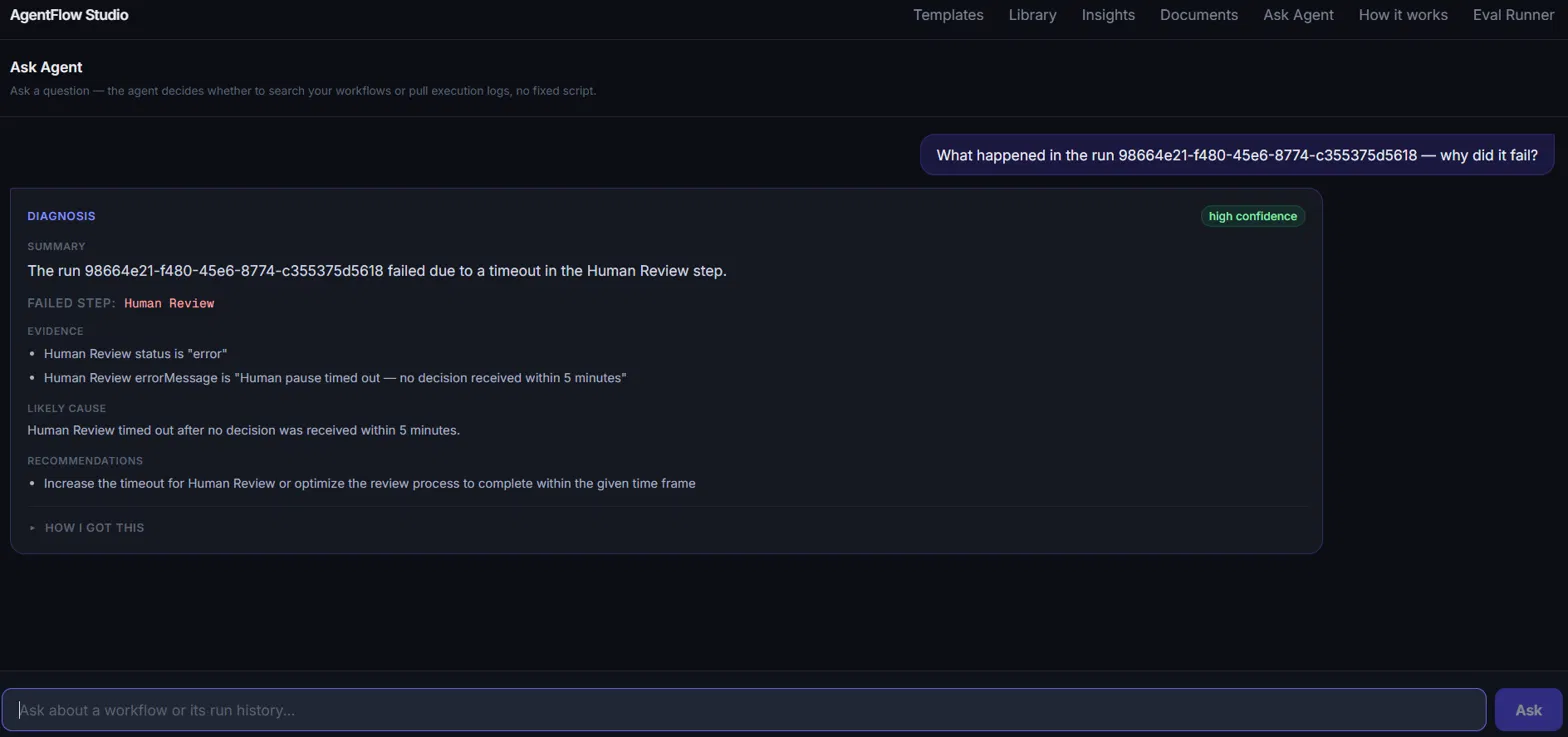
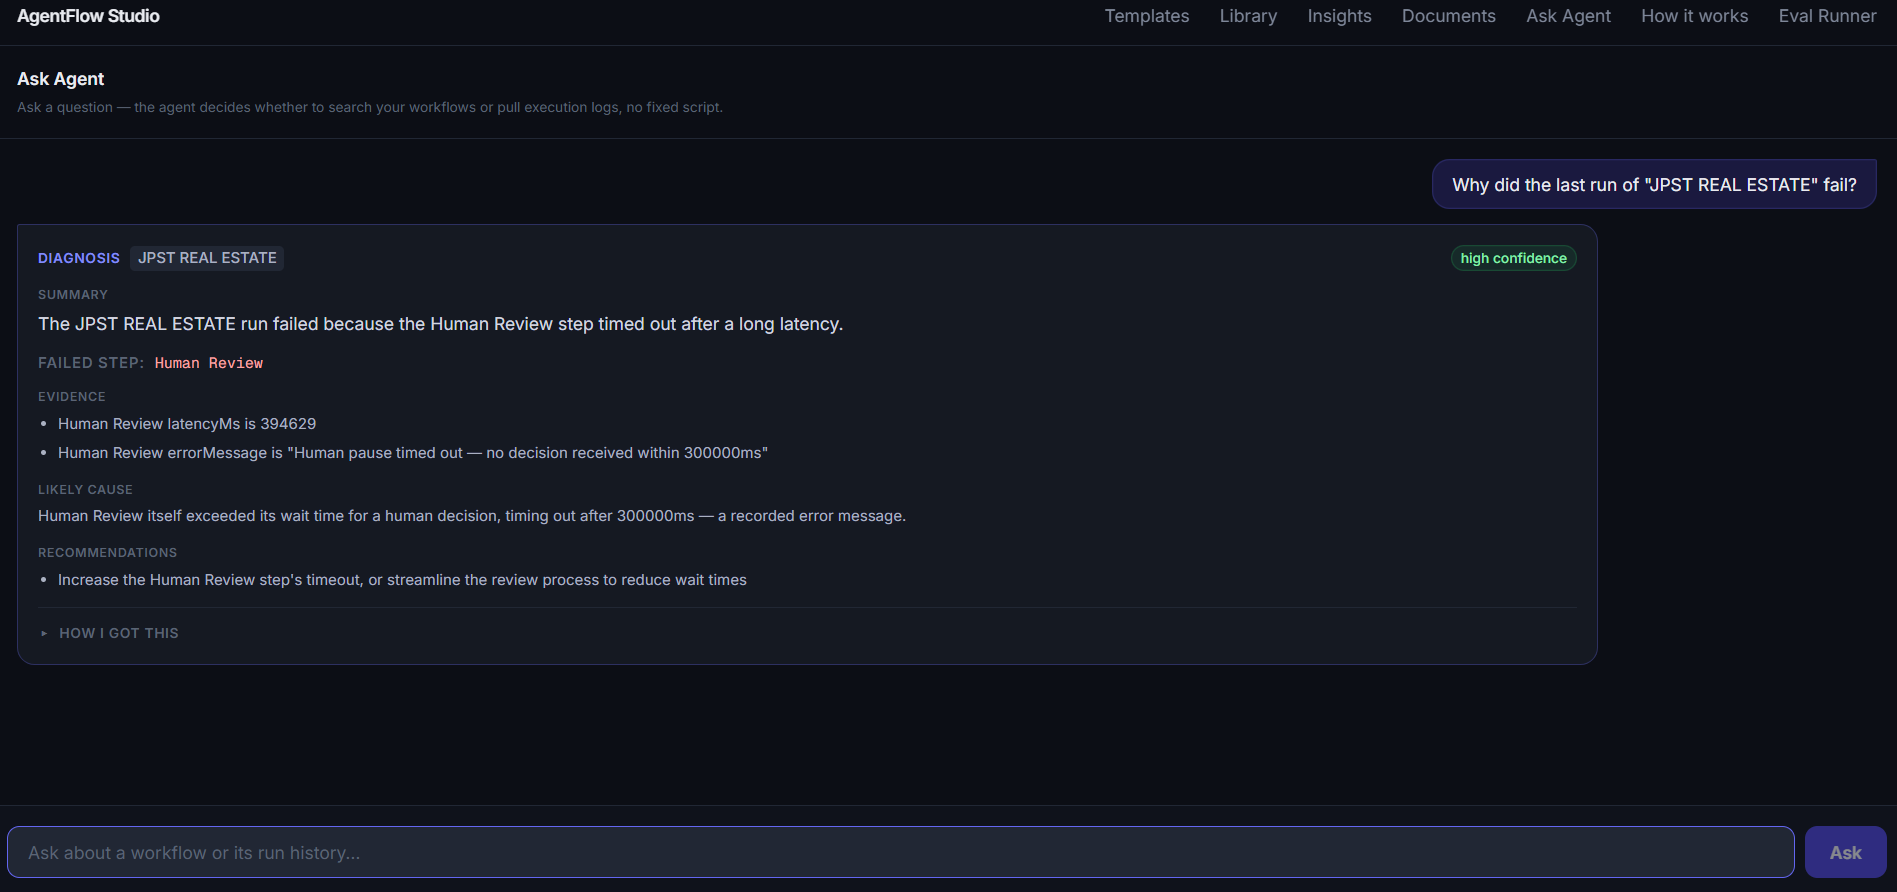
docs: rewrite README opening, add human-pause demo GIF

diff --git a/README.md b/README.md
@@ -1,8 +1,21 @@
 # AgentFlow Studio
 
-A visual AI workflow builder with a custom execution engine - traced, budgeted, validated, and regression-tested on every commit. Drag nodes onto a canvas, connect them, and run them. Built from scratch, no LangChain or orchestration framework.
+AgentFlow Studio
+
+A visual AI workflow builder with a custom execution engine, live tracing, human approval, production guardrails, and an AI debugging assistant.
+
+Build AI agents by dragging nodes onto a canvas. Search the web, analyze results with an LLM, validate the output, pause for human approval, and watch every step execute live.
+
+When a workflow fails, the debugging assistant investigates the actual run trace and guardrail events to explain what went wrong and recommend a fix - grounded in real execution data, not a guess.
+
+Built from scratch with no LangChain or orchestration framework. Traced, budgeted, validated, and regression-tested on every commit.
 
 **Live**: [agentflow-studio-six.vercel.app](https://agentflow-studio-six.vercel.app) · **Repo**: [github.com/trinayanswarup/agentflow-studio](https://github.com/trinayanswarup/agentflow-studio)
+
+---
+
+![Human pause approval flow](public/human-pause-demo.gif)
+_Full human-in-the-loop flow - approve, edit, or reject before a workflow continues._
 
 ---
 
@@ -21,7 +34,7 @@ _Workflows pause for human review. Approve the output, edit it, or reject and st
 _Upload a PDF or Word doc, ask questions, get answers with cited source excerpts._
 
 ![Diagnosis card](public/screenshot-diagnosis.png)
-_Ask Agent investigates a failed run and returns a structured diagnosis — never guessing when a recorded fact is available._
+_Ask Agent investigates a failed run and returns a structured diagnosis - never guessing when a recorded fact is available._
 
 ---
 
